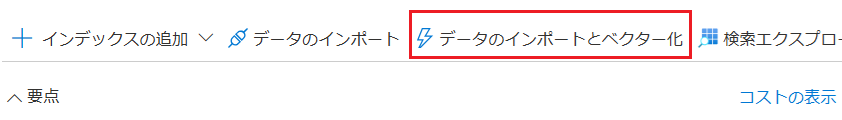
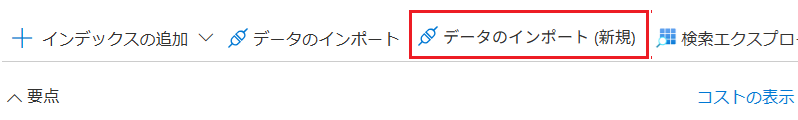
any pages fix

Changed region(s): [[0.0, 0.075, 1.0, 0.5], [0.8722, 0.75, 1.0, 0.875], [0.0, 0.725, 0.0902, 0.875]]

diff --git a/Ex01-3.md b/Ex01-3.md
@@ -96,7 +96,7 @@ Azure Blob コンテナーにアップロードしたドキュメントを Azure
 
 \[**手順▶**\]
 
-1. 作業中の Azure AI Search リソース `search(ランダムな値)` の \[概要\] 画面を開き、画面上部の \[**データのインポートとベクター化**\] ボタンをクリックします
+1. 作業中の Azure AI Search リソース `search(ランダムな値)` の \[概要\] 画面を開き、画面上部の \[**データのインポート(新規)**\] ボタンをクリックします
 
     ![Azure AI Search インポート ウィザード](images/AISearch_menu_inport.png)
 
